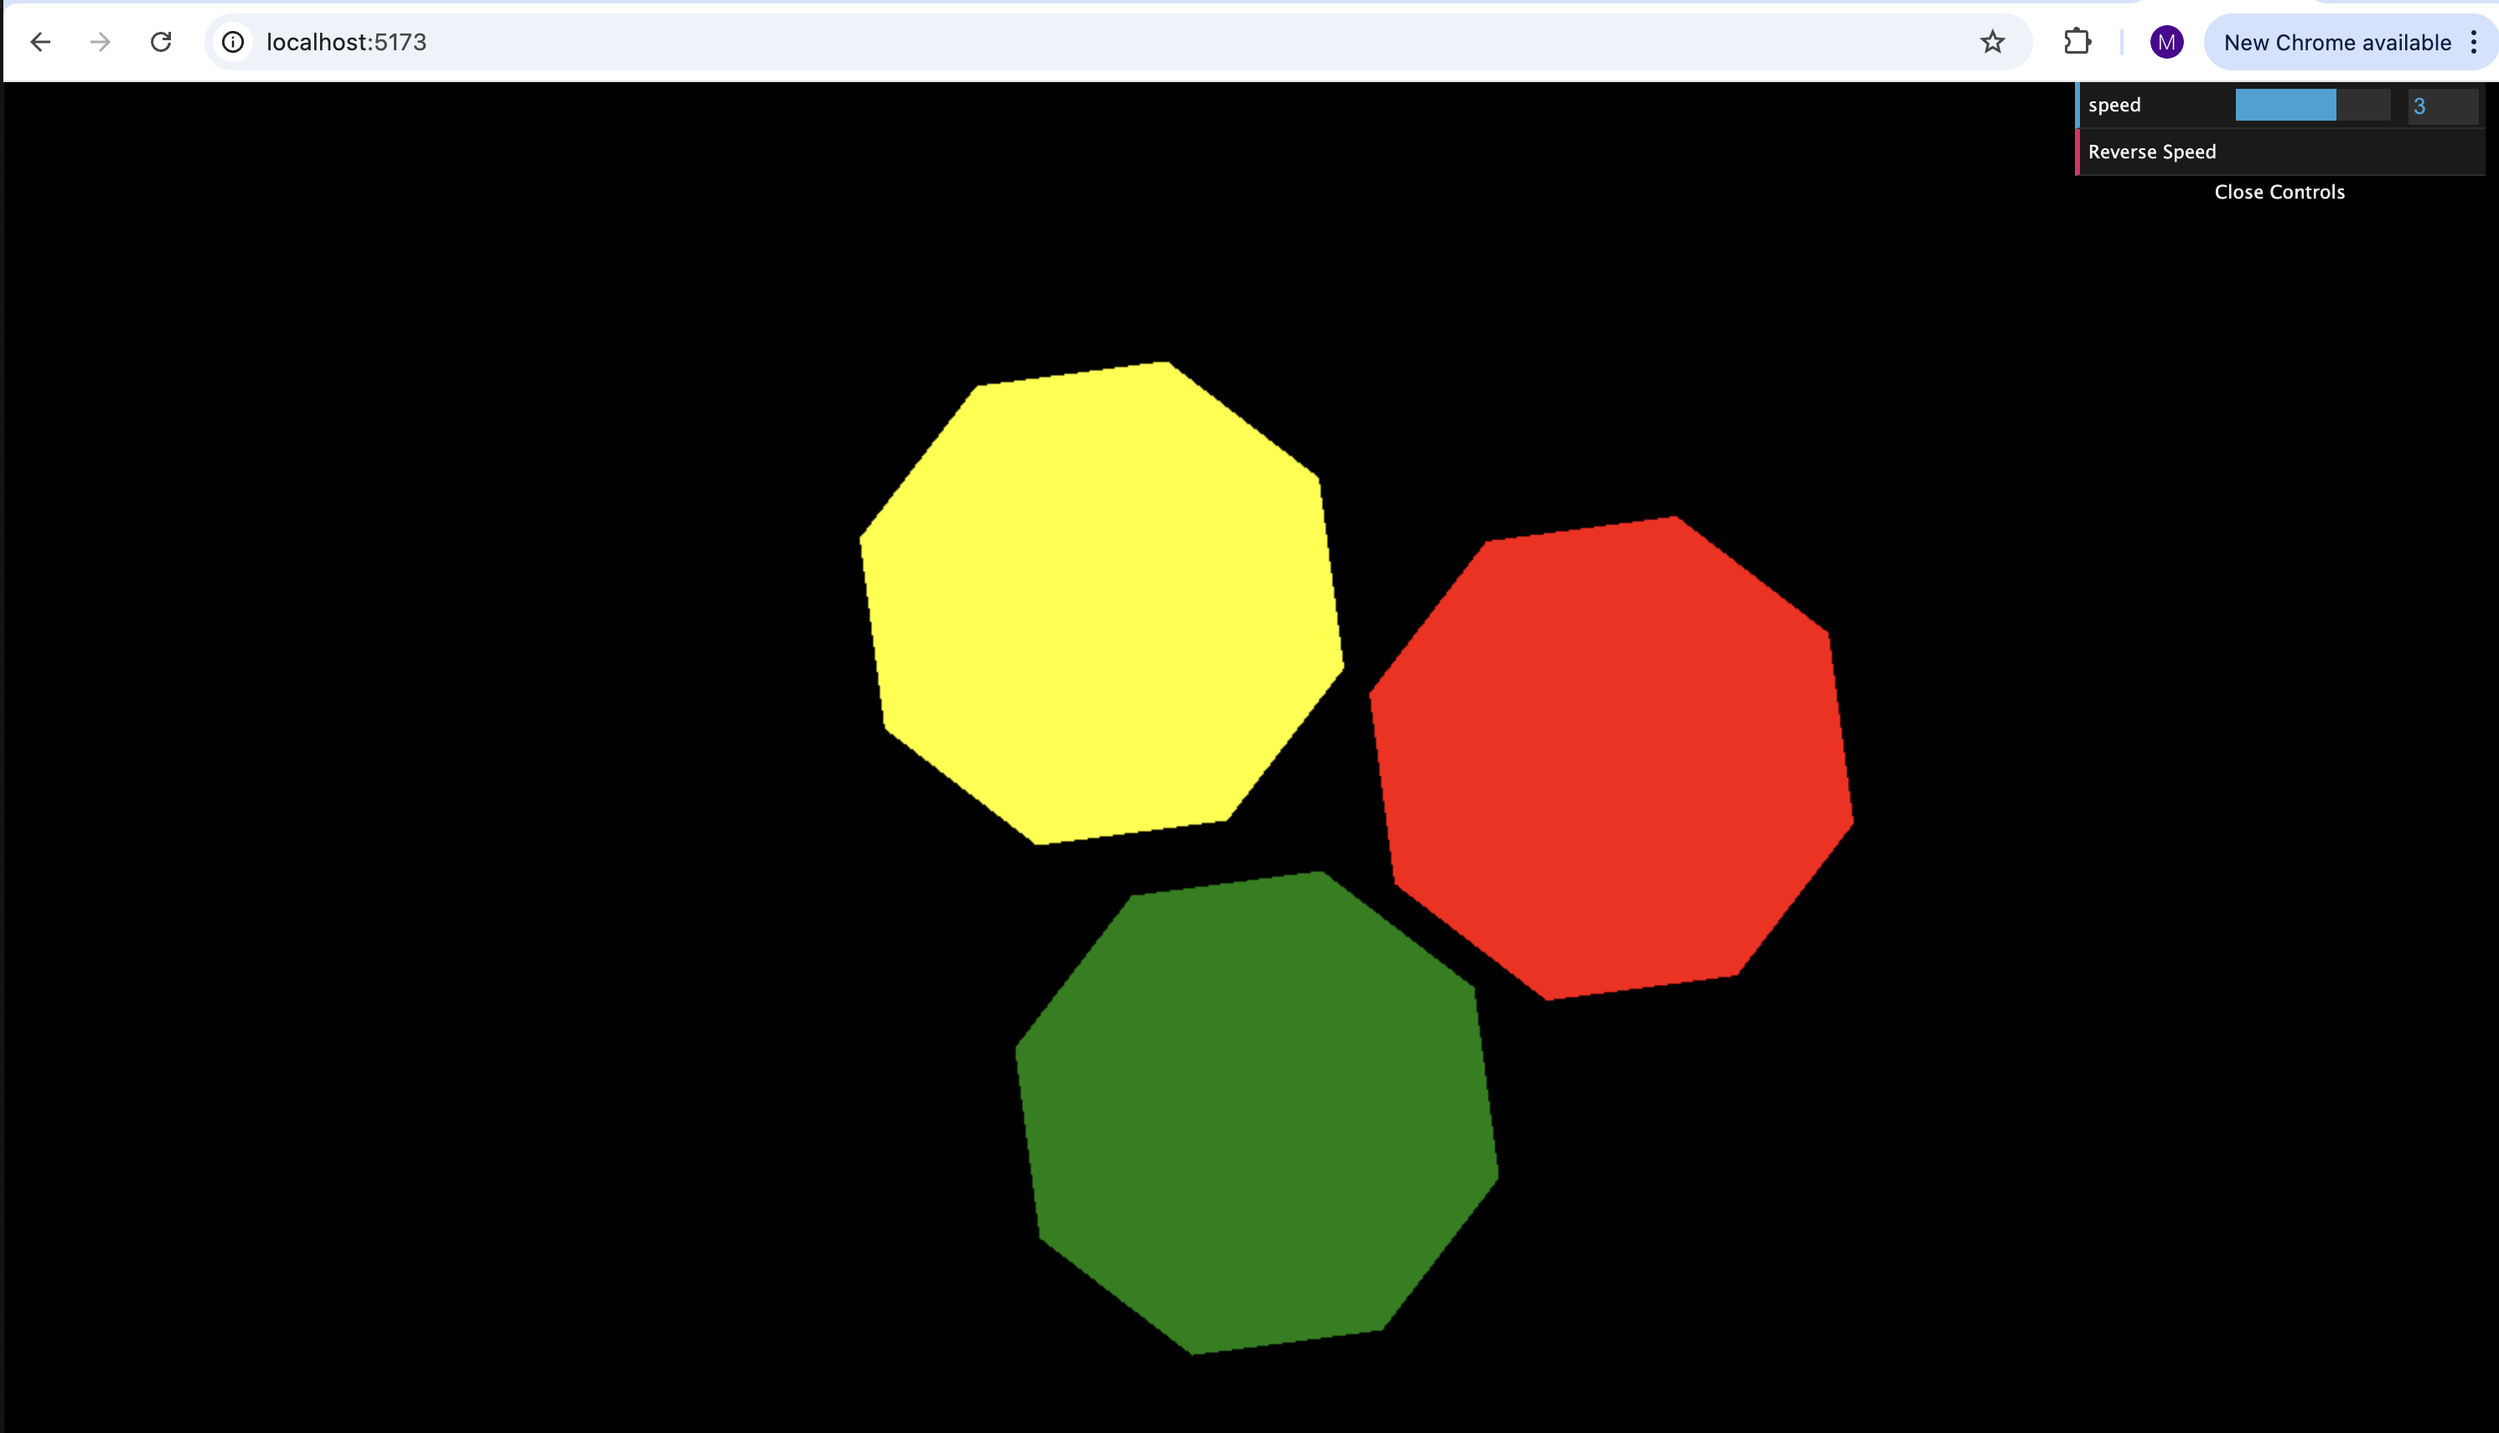
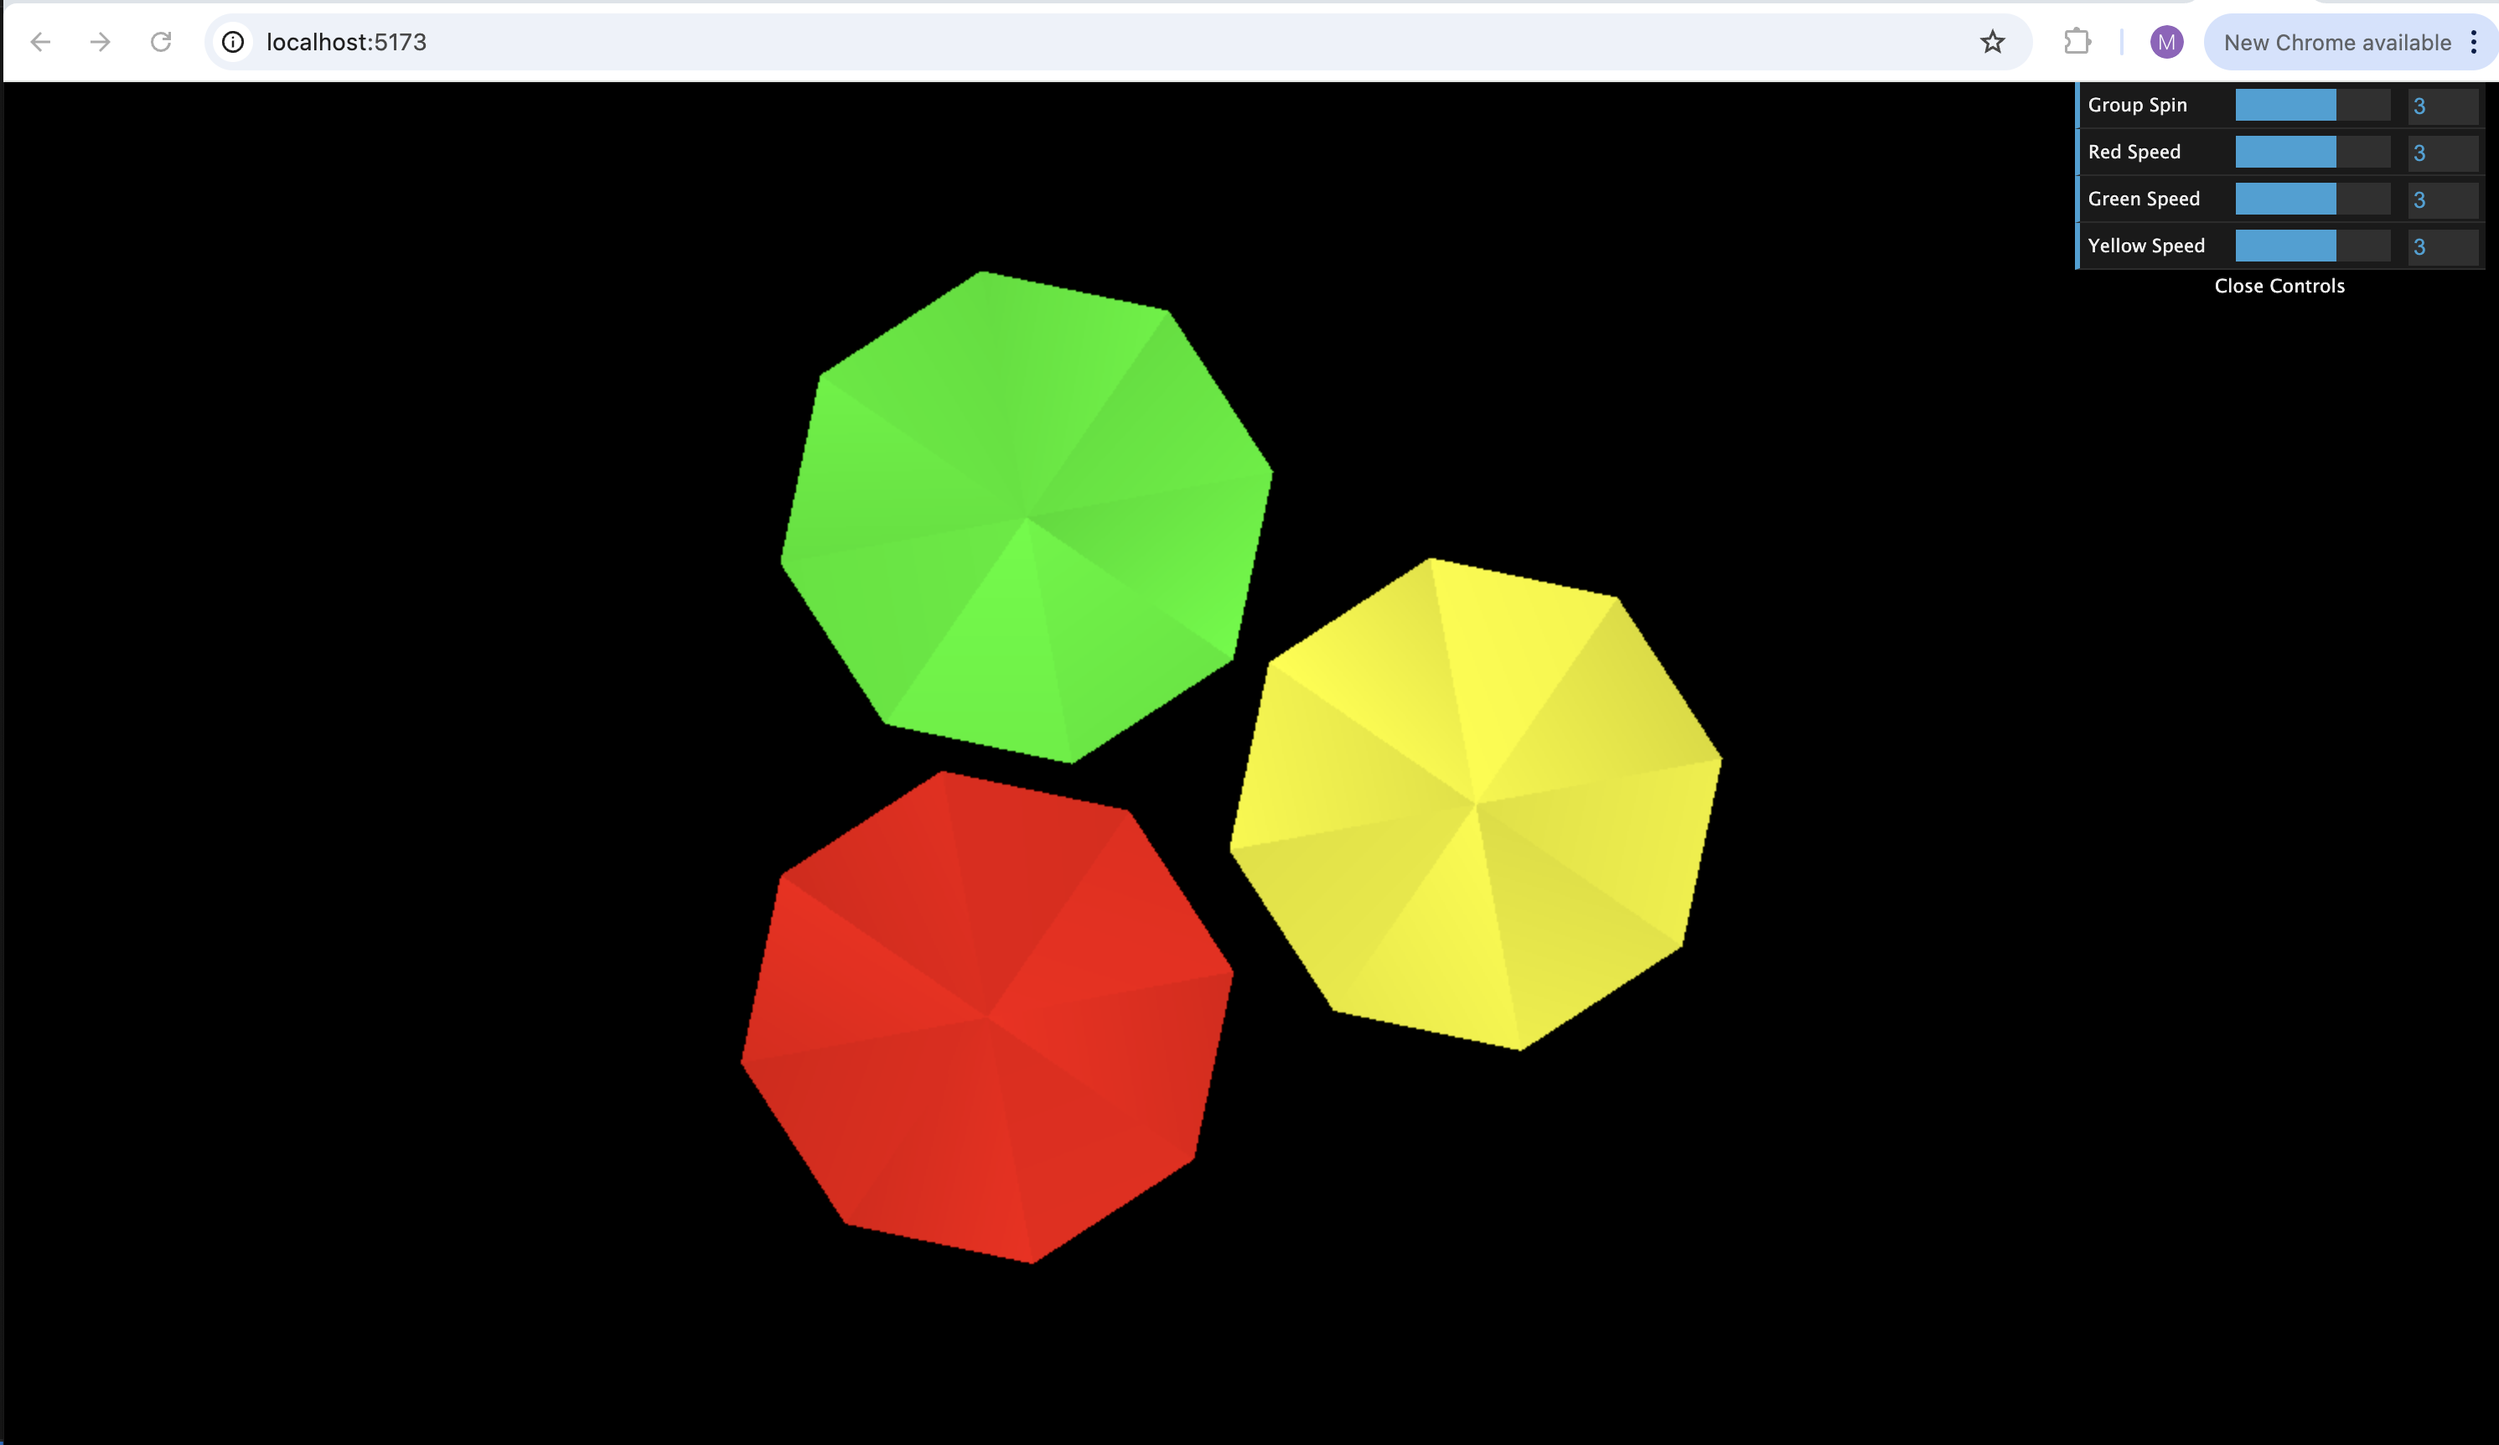
documentation update

Changed region(s): [[0.2807, 0.186, 0.7485, 0.9608], [0.8109, 0.0, 0.998, 0.217], [0.9044, 0.031, 0.9668, 0.062]]

diff --git a/README.MD b/README.MD
@@ -96,11 +96,11 @@ _Expected output for question 1._
 
 ## Question 2: Three.js Octahedrons
 
-The solution to this problem is in the `Q2/` directory. Question 2 is similar to the first. It animates the three octahedrons using the built-in Circle geometry with a circumference of 8 to simulate an octahedron.<br>
+The solution to this problem is in the `Q2/` directory. Question 2 is similar to the first. It animates the three octahedrons using the built-in Circle geometry with a circumference of 8 to simulate an octahedron. The vertices of each octahedron has a random shade of its respective color assigned to it to make the octahedron shape more apparent. It makes for a more gem-like reflection effect on each octahedron<br>
 
 The solution takes heavy inspiration from Lab 2, particularly in the use of the Three.js Scene Graph. Similar to Lab 2, the octahedrons are organized into a group called `tetGroup` and further enclosed in a rotation group called `tetRotGroup`. These groups are later used in the `render()` function to rotate the entire group of octahedrons around the center of the frustum while they each spin individually.<br>
 
-Speed controls are also present as in Lab 2; however, now there is a button to reverse the direction of the animation. Additionally, the animation can be reversed using the speed slider.<br>
+The animation speed controls of lab 2 have been adjusted. It no longer controls the speed of the enire scene graph animation. There are now individual sliders to adjust the speed and direction at which each octahedron spins as well as the speed and direction the entire rotation group spins.<br>
 
 ### How to Run Question 2:
 
